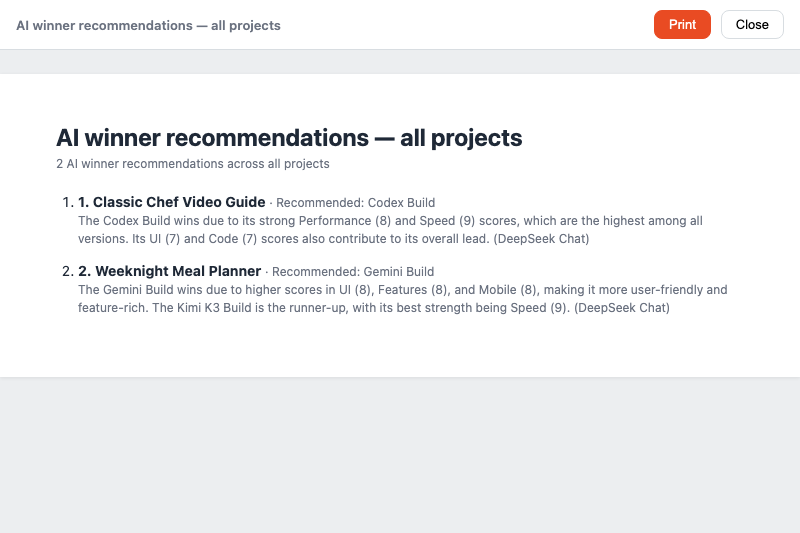
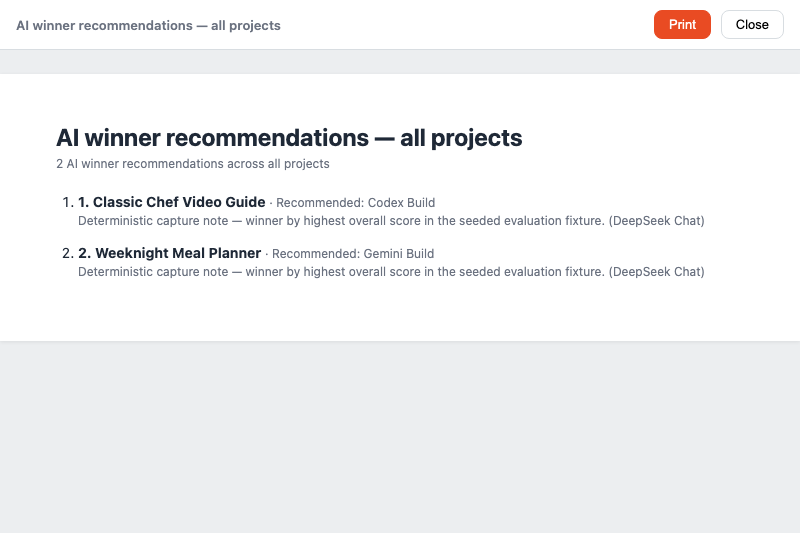
feat(gallery): deterministic review-sheet capture + byte gate (pre-push 0.6d)
The review-sheet pair drifted run to run because the AI winner-recommendation
note (and the winner itself) are non-deterministic. This adds a deterministic
capture mode to verify-review-sheet.mjs: REVIEW_SHEET_DETERMINISTIC (or the
new --check flag, which implies it) intercepts every /api/ai/recommend-winner
response via CDP Fetch and pins BOTH variable fields — the note to a fixed
fixture string, and the winner to the highest-overallScore candidate (the
page's own fallback). Two full runs now produce byte-identical PNGs.

--check also byte-compares the captured pair against the committed
screenshots/ PNGs — the same gate contract capture-docs.mjs --check gives the
docs PNGs — exiting 1 with re-capture guidance when the deployed app changed
the visuals (skip-not-fail on a missing baseline). Wired into the pre-push
hook as gate 0.6d (own 420s budget, since the driver drives the live app with
two AI round-trips, far beyond run_verify's 90s). The gate is macOS-local
only by design: hosted runners render different fonts, so a CI byte gate
would fail on every run (the same lesson that removed the docs byte gate from
the ubuntu job).

Also: sign-in retry once mid-poll (transient auth/network-request-failed was
failing whole runs), README + launch.md hook-inventory/diagram updates, and
the committed preview PNG refreshed to the deterministic render (the panels
PNG was already byte-stable — the winner did not change). Contract tests
[…]

Changed region(s): [[0.0625, 0.3902, 0.9062, 0.6004], [0.0, 0.6304, 1.0, 0.6604]]

diff --git a/scripts/verify-review-sheet.test.ts b/scripts/verify-review-sheet.test.ts
@@ -1,0 +1,98 @@
+import { readFileSync } from 'node:fs';
+import { describe, expect, it } from 'vitest';
+
+// ============================================================================
+// scripts/verify-review-sheet.test.ts — lock the deterministic capture +
+// --check byte-gate contract inside scripts/verify-review-sheet.mjs.
+//
+// The review-sheet pair (screenshots/review-sheet-*.png) used to drift run to
+// run because the AI winner-recommendation note text is non-deterministic.
+// This suite locks the mechanism that makes the pair byte-stable — CDP Fetch
+// interception that pins BOTH variable fields (note + winner) — plus the
+// --check mode that byte-compares the captured pair against the committed
+// PNGs (the same gate contract capture-docs.mjs --check gives the docs PNGs).
+// Reads the REAL script from disk (never a fixture): a future edit that
+// weakens the interception (so notes drift again), drops the winner pin, or
+// turns --check into a silent no-op fails here instead of letting the byte
+// gate masquerade as verification.
+// ============================================================================
+
+const SCRIPT_PATH = 'scripts/verify-review-sheet.mjs';
+const script = readFileSync(SCRIPT_PATH, 'utf8');
+
+describe('scripts/verify-review-sheet.mjs · deterministic capture mode', () => {
+  it('defines the REVIEW_SHEET_DETERMINISTIC flag and a fixed fixture note', () => {
+    expect(script).toContain("process.env.REVIEW_SHEET_DETERMINISTIC === '1'");
+    expect(script).toContain("const FIXTURE_NOTE =");
+  });
+
+  it('--check implies deterministic mode (the byte gate cannot work without it)', () => {
+    expect(script).toContain('const DETERMINISTIC = isCheck ||');
+  });
+
+  it('enables CDP Fetch interception scoped to the recommend-winner API only', () => {
+    // The interception must target exactly the AI route that carries the note;
+    // a broader pattern would pause unrelated requests and risk hanging the run.
+    expect(script).toContain("urlPattern: '*://*/*api/ai/recommend-winner*'");
+    expect(script).toContain("requestStage: 'Response'");
+  });
+
+  it('pins the note to the fixture string in the fulfilled response', () => {
+    expect(script).toContain('json.recommendation.note = FIXTURE_NOTE;');
+    expect(script).toContain("main.send('Fetch.fulfillRequest'");
+    // The response must be fulfilled (not just continued) so the rewritten
+    // body actually reaches the page's JS.
+    expect(script).toContain("name: 'content-type', value: 'application/json'");
+  });
+
+  it('pins the winner deterministically from the request candidates (top overallScore)', () => {
+    // The note alone is not enough: the "Recommended: X Build" line comes from
+    // recommendedVersionId, which the AI picks non-deterministically. The pin
+    // must use the request's own candidates (the page's fallback choice).
+    expect(script).toContain('Fetch.getRequestPostData');
+    expect(script).toContain('json.recommendation.recommendedVersionId = top.versionId;');
+    expect(script).toContain('c.overallScore > best.overallScore');
+  });
+
+  it('never hangs the run when interception fails (continues the request)', () => {
+    expect(script).toContain('Fetch.continueRequest');
+  });
+
+  it('retries the sign-in submit once on a transient network failure', () => {
+    // Firebase sign-in can fail with auth/network-request-failed on the first
+    // request after idle; without the retry the byte gate (and the structural
+    // gate) would fail whole runs on a network blip. The retry must re-fill
+    // the form (a failed attempt may clear it) and fire ONCE, not loop.
+    expect(script).toContain('signInRetried = false;');
+    expect(script).toContain('retrying the submit once (transient network)');
+    expect(script).toContain('signInRetried = true;');
+  });
+});
+
+describe('scripts/verify-review-sheet.mjs · --check byte gate', () => {
+  it('parses a --check flag distinct from the plain capture', () => {
+    expect(script).toContain("args.includes('--check')");
+  });
+
+  it('byte-compares the captured pair against the committed screenshots/ PNGs', () => {
+    expect(script).toContain('review-sheet-panels.png');
+    expect(script).toContain('review-sheet-preview.png');
+    expect(script).toContain('.equals(');
+    expect(script).toContain('WOULD CHANGE (the deployed app altered the review-sheet visuals)');
+  });
+
+  it('exits 1 with re-capture-and-commit guidance when any PNG would change', () => {
+    expect(script).toContain('review-sheet byte gate FAILED');
+    expect(script).toContain("run 'npm run capture:screenshots'");
+    expect(script).toContain('process.exit(1)');
+  });
+
+  it('SKIPS (exit 0, never fails) when there is no committed baseline to compare', () => {
+    expect(script).toContain('no committed baseline PNGs in screenshots/');
+    expect(script).toContain('process.exit(0)');
+  });
+
+  it('prints a distinct PASS message when the committed pair matches today\'s capture', () => {
+    expect(script).toContain('review-sheet byte gate PASS');
+  });
+});

diff --git a/scripts/pre-push.test.ts b/scripts/pre-push.test.ts
@@ -142,3 +142,46 @@ describe('.githooks/pre-push · onboarding-docs render diff gate (gate 0.6c)', (
     expect(gate07).toBeGreaterThan(gate06c);
   });
 });
+
+describe('.githooks/pre-push · review-sheet byte gate (gate 0.6d)', () => {
+  it('lists the review-sheet byte gate in the header gate inventory', () => {
+    expect(hook).toContain('0.6d scripts/verify-review-sheet.mjs --check');
+    expect(hook).toContain('deterministically and FAILS if the committed pair');
+  });
+
+  it('defines the gate block that runs verify-review-sheet.mjs --check', () => {
+    expect(hook).toContain('# ── 0.6d Review-sheet byte gate');
+    expect(hook).toContain('verify-review-sheet.mjs --check --out /tmp/review-sheet-bytecheck');
+  });
+
+  it('timeboxes the gate with its OWN budget, not the 90s run_verify timebox', () => {
+    // The driver drives the LIVE app with two AI round-trips (up to ~90s
+    // each), so running it under run_verify's 90s budget would always alarm
+    // out. The gate must use a dedicated perl alarm (same treatment as the
+    // 1200s ship:ready capstone), NOT the run_verify function.
+    expect(hook).toContain("perl -e 'alarm shift; exec @ARGV' 420 node scripts/verify-review-sheet.mjs --check");
+    // Line-anchored: the gate's invocation must be its own exec line, never
+    // routed through run_verify's 90s wrapper.
+    expect(hook).toMatch(/^\s*if perl -e 'alarm shift; exec @ARGV' 420 node scripts\/verify-review-sheet\.mjs --check --out \/tmp\/review-sheet-bytecheck; then$/m);
+  });
+
+  it('gates on the web API key AND Chrome, skipping with notices when either is missing', () => {
+    expect(hook).toContain('[ -n "$KEY" ] && [ -f scripts/verify-review-sheet.mjs ]');
+    expect(hook).toContain('Chrome not found — skipping review-sheet byte gate');
+    expect(hook).toContain('FIREBASE_WEB_API_KEY not set — skipping review-sheet byte gate');
+  });
+
+  it('names the 142 alarm timeout and the re-capture failure reason', () => {
+    expect(hook).toContain('exceeded 420s');
+    expect(hook).toContain('re-capture and commit the PNGs');
+  });
+
+  it('sits after the docs-render gate (0.6c) and before the vercel-env gate (0.7)', () => {
+    const gate06d = hook.indexOf('# ── 0.6d Review-sheet byte gate');
+    const gate06c = hook.indexOf('# ── 0.6c Onboarding-docs render diff gate');
+    const gate07 = hook.indexOf('# ── 0.7 Vercel-env drift gate');
+    expect(gate06d).toBeGreaterThan(gate06c);
+    expect(gate06d).toBeGreaterThan(-1);
+    expect(gate07).toBeGreaterThan(gate06d);
+  });
+});

diff --git a/README.md b/README.md
@@ -122,11 +122,12 @@ checklist matches the runner's gate names and secrets, and the ci.yml +
 deployment_status workflows gate on exactly the secrets each gate declares —
 a gate renamed, dropped, or mis-gated fails before anything runs. The
 `.githooks/pre-push` hook runs the whole suite (timeboxed) on every push,
-preceded by the hook's three lint gates — **0.6** import-surface, **0.6b**
-dead-words, **0.6c** docs-render diff (re-renders the onboarding-docs PNGs
-and fails until the committed screenshots match) — and `npm run ship:go`
-commits, pushes, waits for the Vercel deploy, then re-runs `ship:ready`
-against the live build.
+preceded by the hook's static and render gates — **0.6** import-surface,
+**0.6b** dead-words, **0.6c** docs-render diff, **0.6d** review-sheet byte
+gate (re-renders the onboarding-docs and review-sheet PNGs and fails until
+the committed screenshots match; the review-sheet capture runs in
+deterministic mode) — and `npm run ship:go` commits, pushes, waits for the
+Vercel deploy, then re-runs `ship:ready` against the live build.
 
 When each gate runs:
 
@@ -134,7 +135,7 @@ When each gate runs:
    ┌───────────────────────────────────────────────────────────────┐
    │  LOCAL — every git push (.githooks/pre-push)                  │
    │  runs the 12 verify:all gates + drift guards (timeboxed); a  │
-   │  hook gates 0.6/0.6b/0.6c (lints + docs-render diff);         │
+   │  hook gates 0.6/0.6b/0.6c/0.6d (lints + render byte gates);   │
    │  dirty tree or any failure ABORTS the push                    │
    └──────────────────────────────┬────────────────────────────────┘
                                   │  push lands only when green
@@ -215,9 +216,11 @@ gallery workflow re-renders on every run:
 
 > Regenerate both whenever the Model Comparison page or the print-all builder
 > changes — `npm run capture:screenshots` (or the gallery workflow's
-> review-sheet step) re-captures them. There is no push-time byte guard on
-> this pair (gate 0.6c only byte-compares the two docs PNGs above), so commit
-> the re-captured PNGs with the edit that changes the page or builder.
+> review-sheet step) re-captures them. The pre-push hook's gate 0.6d
+> (`verify-review-sheet.mjs --check`) re-runs the capture in deterministic
+> mode — REVIEW_SHEET_DETERMINISTIC pins the AI note and winner, so the pair
+> is byte-stable — and fails until the re-captured PNGs are committed with
+> the edit, the same byte-gate contract the docs PNGs get from gate 0.6c.
 
 ## Screenshots
 

diff --git a/docs/launch.md b/docs/launch.md
@@ -130,7 +130,7 @@ When each gate runs (same picture as the README handoff section):
    ┌───────────────────────────────────────────────────────────────┐
    │  LOCAL — every git push (.githooks/pre-push)                  │
    │  runs the 12 verify:all gates + drift guards (timeboxed); a  │
-   │  hook gates 0.6/0.6b/0.6c (lints + docs-render diff);         │
+   │  hook gates 0.6/0.6b/0.6c/0.6d (lints + render byte gates);   │
    │  dirty tree or any failure ABORTS the push                    │
    └──────────────────────────────┬────────────────────────────────┘
                                   │  push lands only when green
@@ -218,9 +218,11 @@ the one-command checklist covers it too.
 **Final pre-push capstone:** the hook ends with the `ship:ready` verdict
 (`scripts/ship-ready.mjs`, 20-minute budget — the full `verify:all` suite far
 exceeds the 90s per-verifier timebox). Before the capstone, the hook also
-runs its three lint gates — **0.6** import-surface, **0.6b** dead-words,
-**0.6c** docs-render diff (re-renders the onboarding-docs PNGs and fails
-until the committed screenshots match). After every individual gate passes, it
+runs its static and render gates — **0.6** import-surface, **0.6b** dead-words,
+**0.6c** docs-render diff, **0.6d** review-sheet byte gate (re-renders the
+onboarding-docs and review-sheet PNGs and fails until the committed
+screenshots match; the review-sheet capture runs in deterministic mode). After
+every individual gate passes, it
 asserts the working tree is clean (nothing staged, unstaged, or untracked — a
 dirty tree means the pushed commit cannot match the code you just ran) and
 runs the complete eleven-gate suite against production, printing a single
